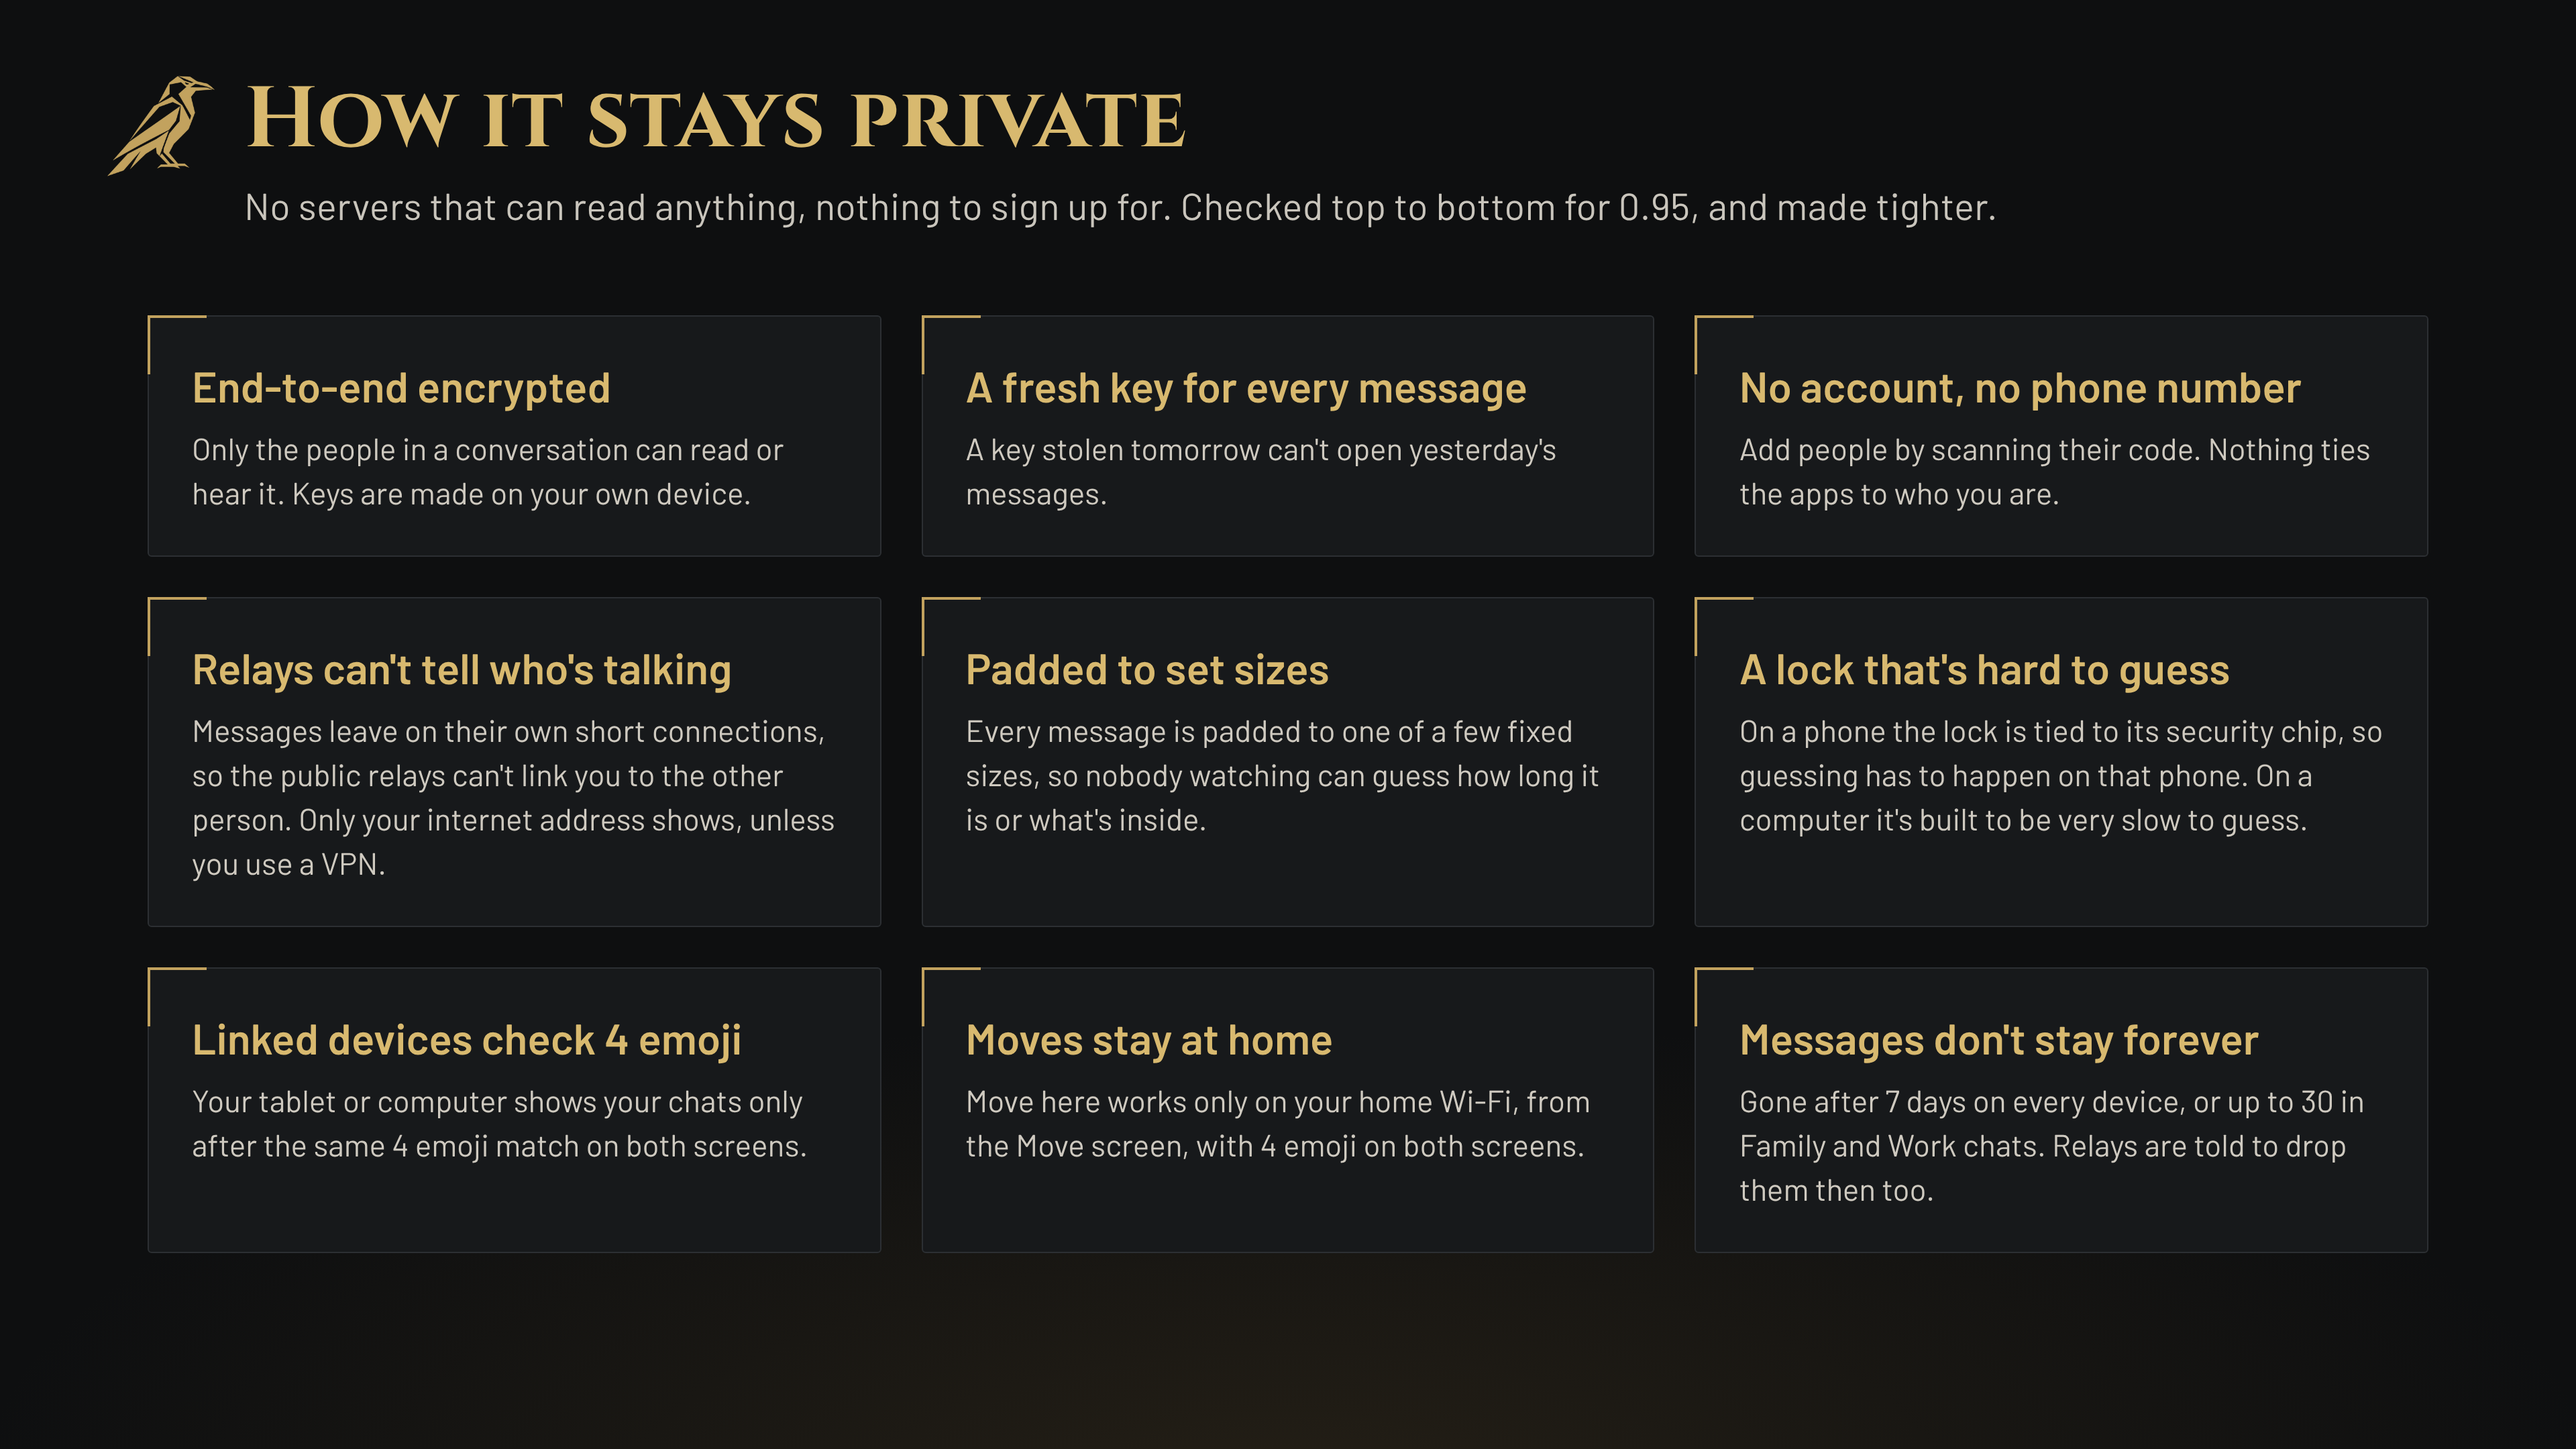
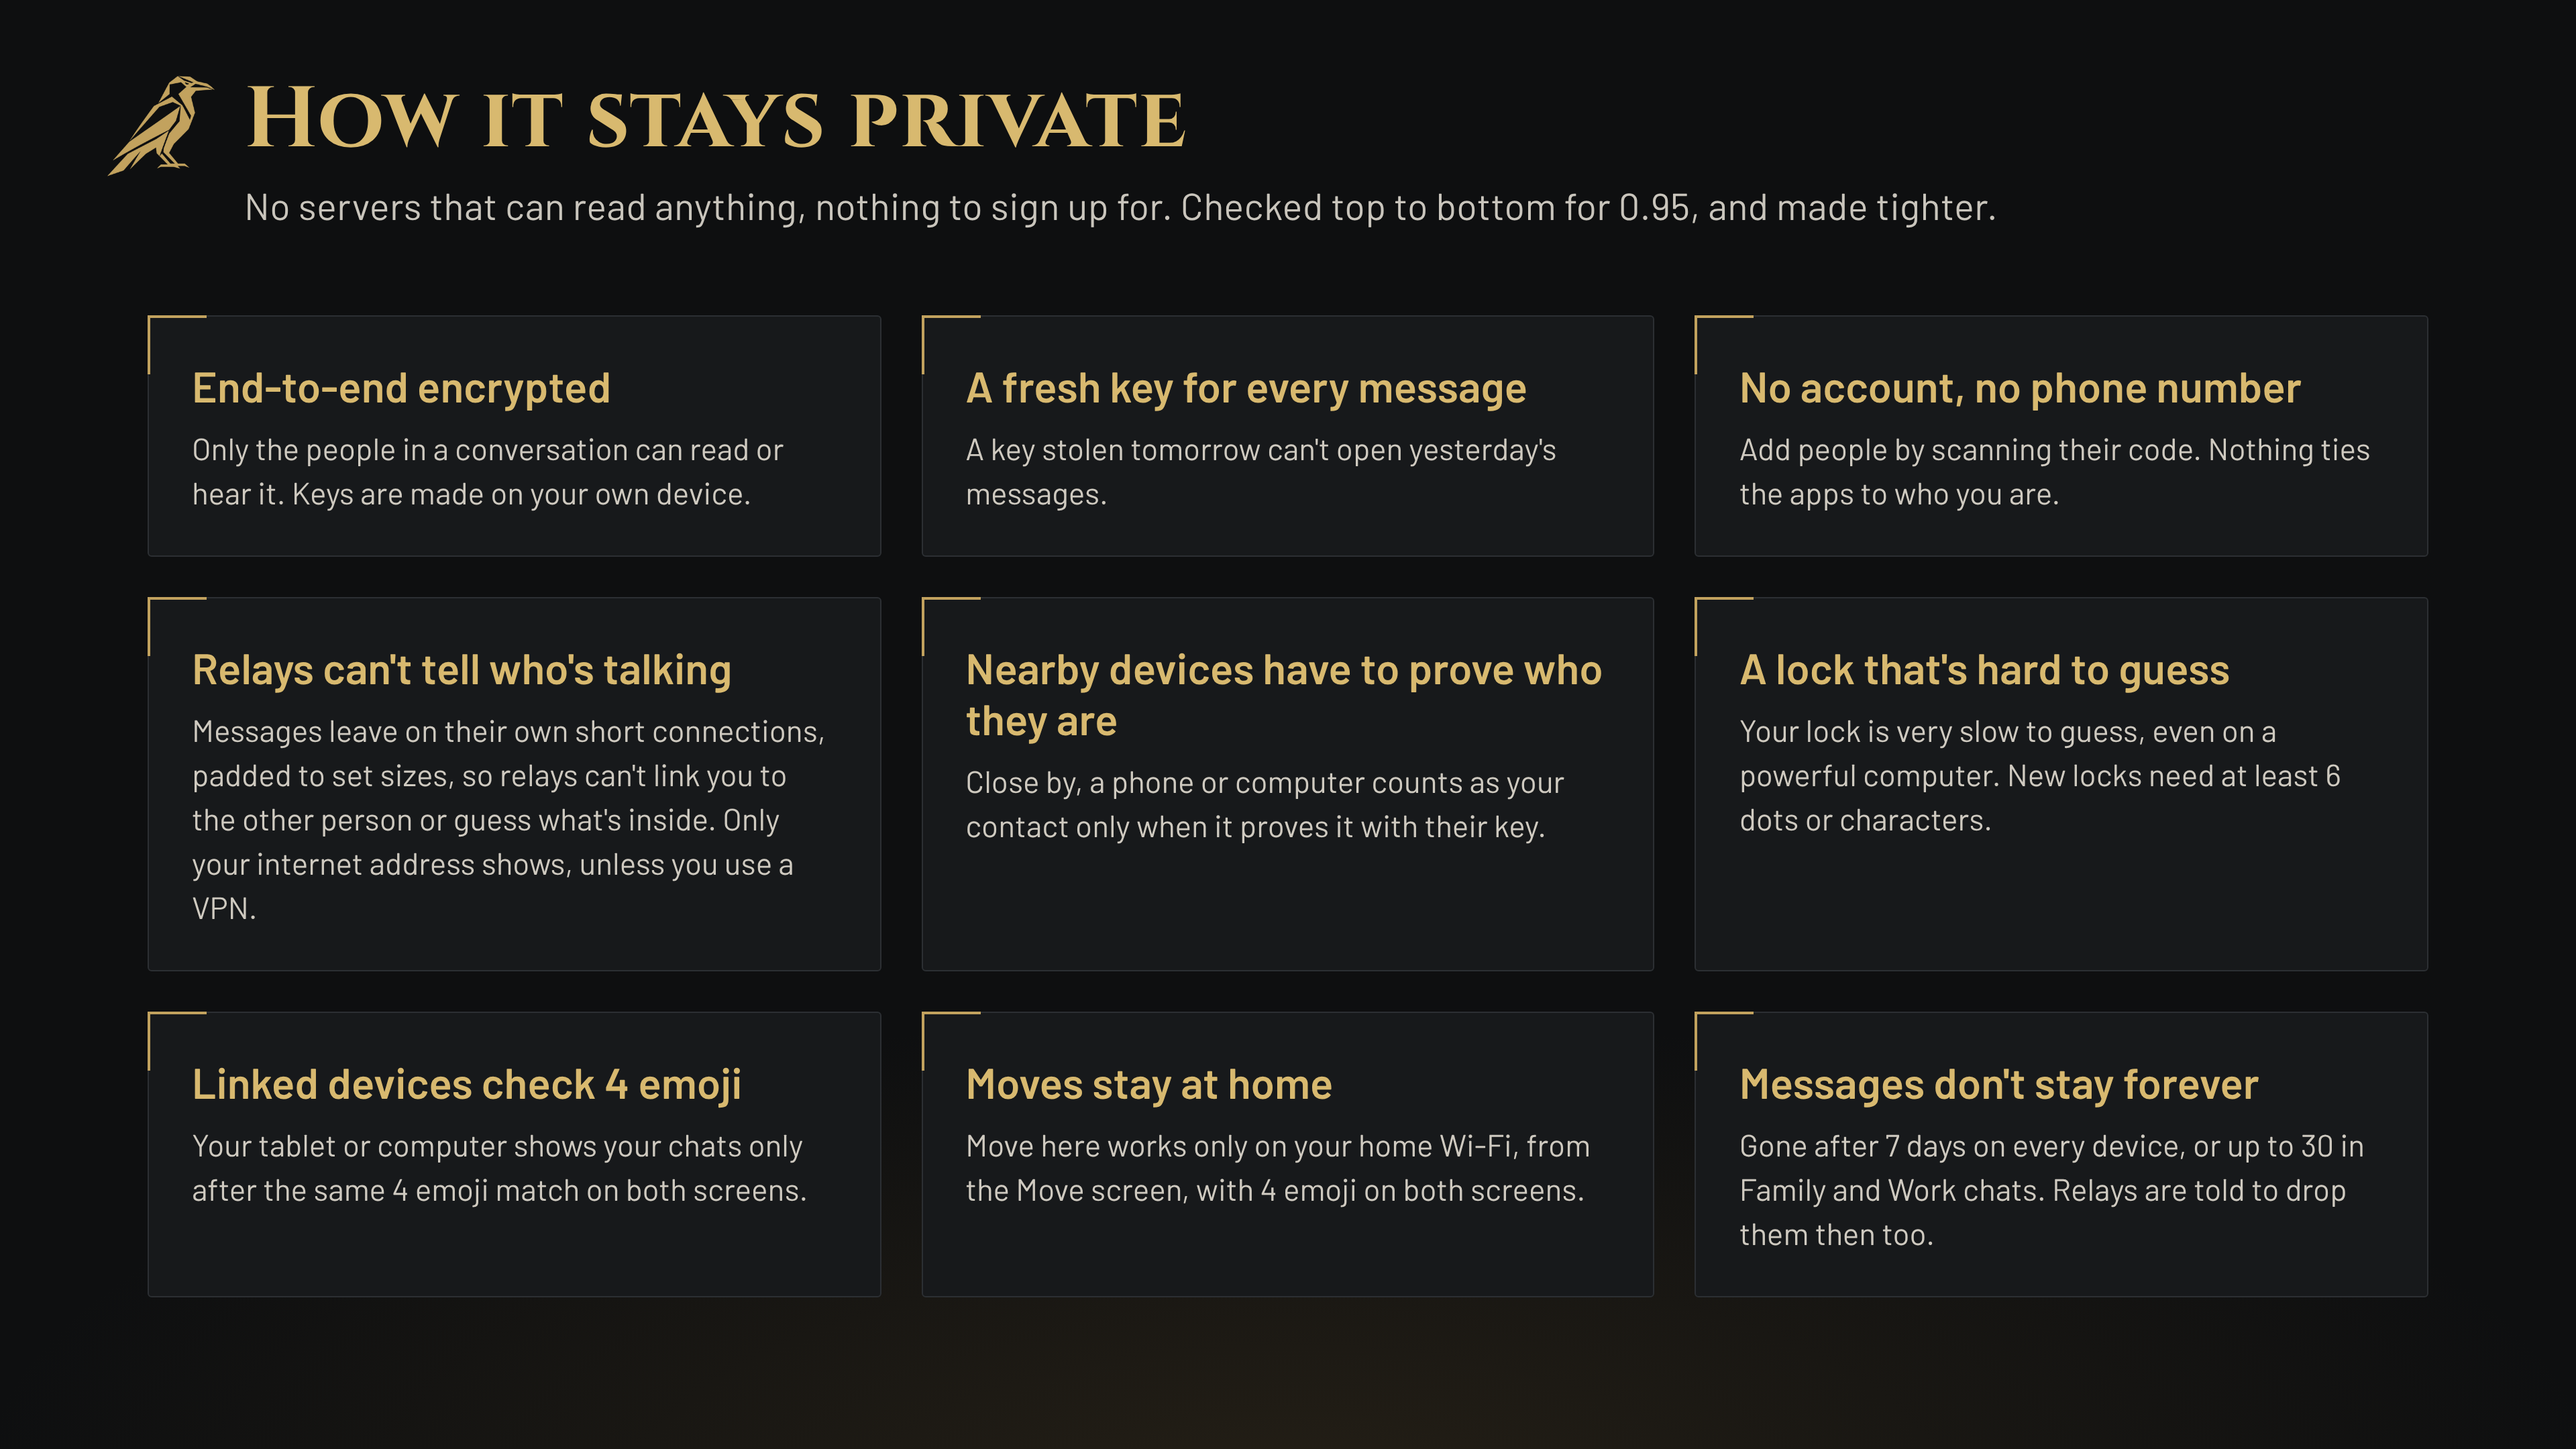
README and privacy panel: the lock is slow to guess, nearby devices prove who they are

diff --git a/README.md b/README.md
@@ -49,8 +49,9 @@ Both apps share one look: sharp edges, a touch of the old north, and a clean, mo
 - **No account.** You are a key made on your own device, not a phone number or email address. Strangers without your code can't reach you.
 - **Works with or without the internet.** Close by, your devices talk over Wi-Fi and Bluetooth. Apart, sealed messages travel through free public relays.
 - **Relays can't tell who's talking to whom.** Messages go out on their own short connections, padded to a few fixed sizes, so a relay can't link sender and receiver or guess what a message is. Only your internet address shows, unless you use a VPN.
+- **Nearby devices have to prove who they are.** Close by, a phone or computer counts as your contact only when it proves it with their key.
 - **Your address stays yours on calls.** Calls with people you haven't chosen to trust go through a relay, so they never see your internet address.
-- **A lock that's hard to guess.** A pattern or password opens the app, and everything it keeps is encrypted. On a phone the lock is tied to its security chip, and on a computer it's built to be very slow to guess. Panic lock locks it all in a moment.
+- **A lock that's hard to guess.** A pattern or password opens the app, and everything it keeps is encrypted. Your lock is very slow to guess, even on a powerful computer, and new locks need at least 6 dots or characters. Panic lock locks it all in a moment.
 - **Safe moves and links.** Move here works only on your home Wi-Fi, and linked devices are checked with 4 emoji on both screens.
 - **Messages don't stay forever.** Chats delete messages, photos, voice clips, videos and files after 7 days on every device, and backups leave them out. Family and Work chats can keep them up to 30 days. Relays are told to drop them when that time is up too.
 - **Checked top to bottom.** For 0.95 both apps were gone through for security problems and made tighter.
